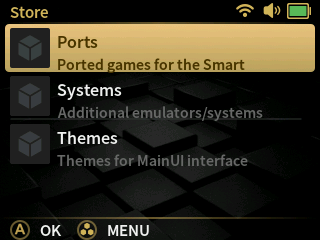
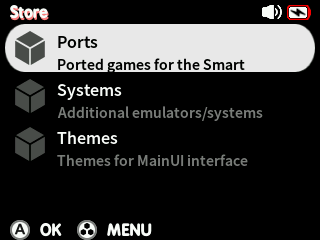
Update docs for Coulomb

diff --git a/docs/support/faq.md b/docs/support/faq.md
@@ -8,9 +8,13 @@ Please ensure your Smart is updated to firmware **v1.0.0**, see the instructions
 
 ## *How can I use L2 and R2 buttons?*
 
-Enable *Menu+L/R* in the Settings menu within MainUI.
+Enable *Menu + L/R -> L2/R2* in the Settings menu within MainUI.
 
 MENU + L and MENU + R combos will respectively be mapped to L2 and R2 buttons.
+
+## *My MP3s are playing slower/faster than they should*
+
+Quark's built in MP3 player uses **44100Hz** as the sample rate. You'll need to make sure that the MP3s you are playing are of this sample rate - higher or lower sample rates (i.e. 48000Hz or 22050Hz) will cause your audio to be played slower or faster with pitch changes.
 
 ## *What systems are supported?*
 
@@ -42,6 +46,7 @@ Quark supports a large list of systems, even more so than the stock operating sy
 * Atari Lynx (Handy)
 * Sega Mega Drive (PicoDrive)
 * Sega Master System (PicoDrive)
+* MP3 player
 * MSX / MSX2 (blueMSX)
 * Neo Geo (FB Alpha 2012)
 * Neo Geo CD (NeoCD)

diff --git a/docs/index.md b/docs/index.md
@@ -26,4 +26,4 @@ Compared to the official stock base package, Quark:
 ### Special thanks
 
 * **[ryanmsartor](https://github.com/ryanmsartor)**: overall contributions
-* **[Marcoosio101](https://github.com/Marcoosio101)**: testing and issue reporting
+* **[Marcoosio101](https://github.com/Marcoosio101)**: testing and issue reporting, default theme design
